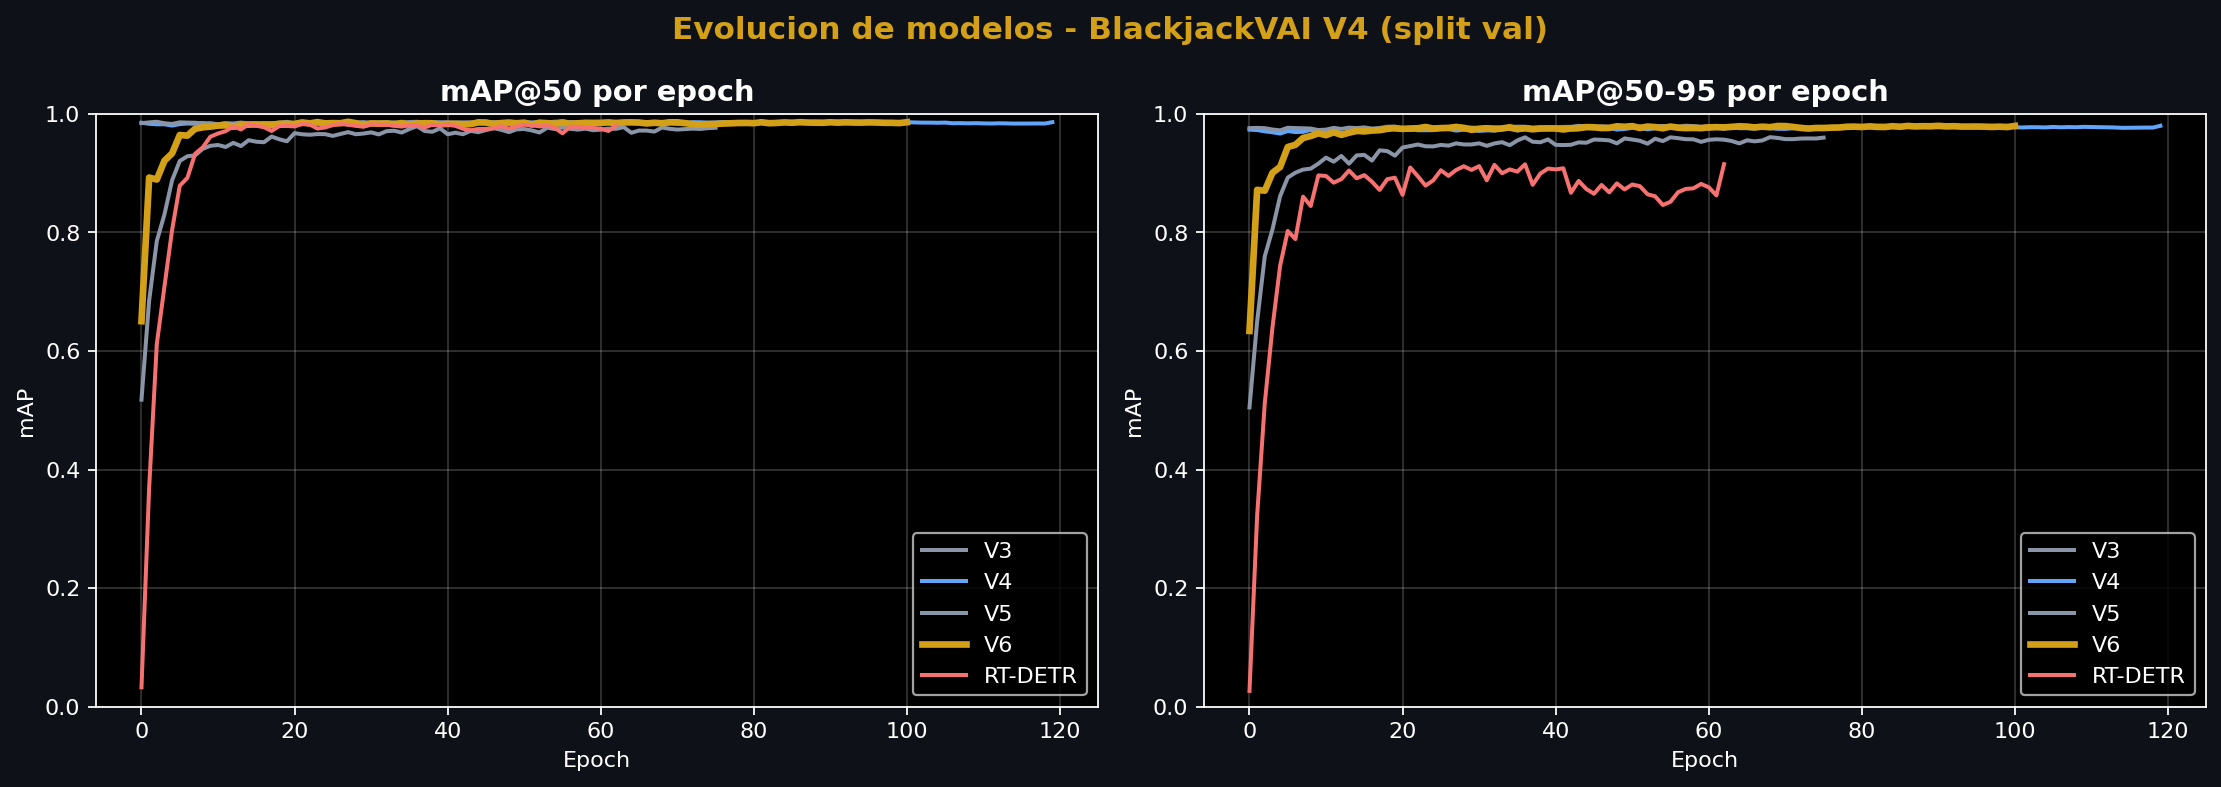
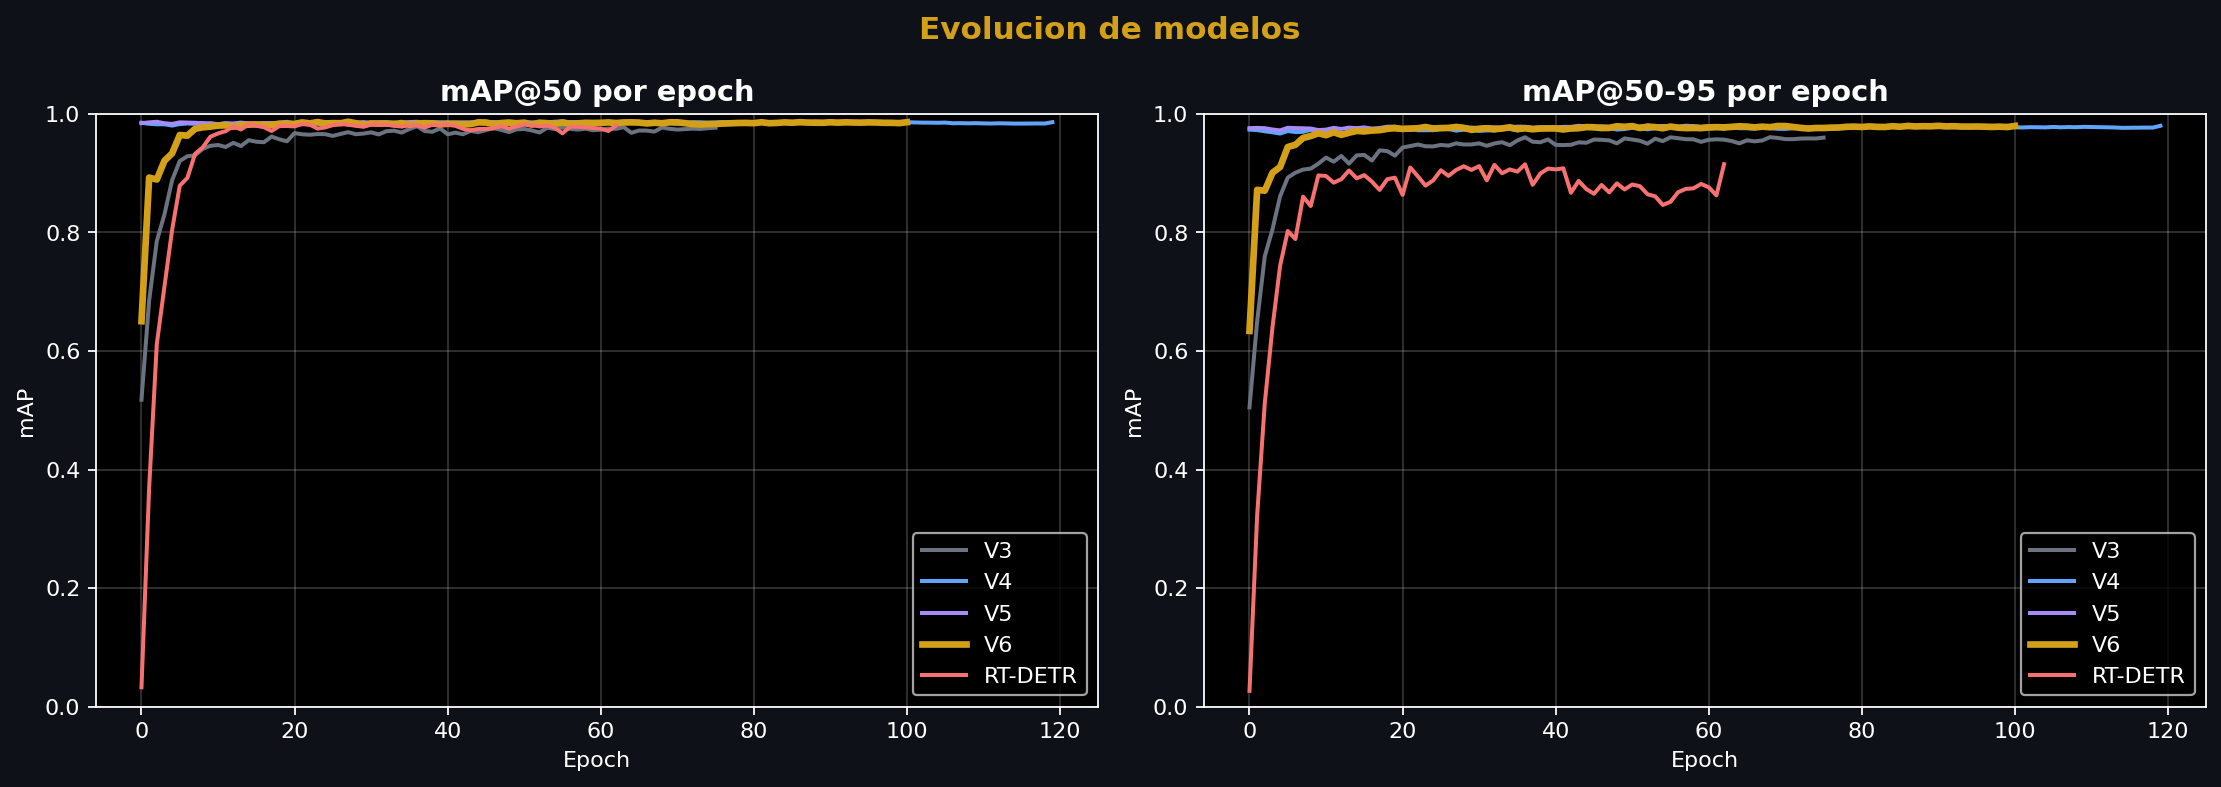
Graficas

diff --git a/docs/presentation_assets/_generate_charts.py b/docs/presentation_assets/_generate_charts.py
@@ -14,11 +14,11 @@ cur = con.cursor()
 
 plt.style.use("dark_background")
 COLORS = {
-    "V3":      "#8b95a8",
-    "V4":      "#60a5fa",
-    "V5":      "#8b95a8",   # gris claro
+    "V3":      "#6b7280",   # gris medio
+    "V4":      "#60a5fa",   # azul
+    "V5":      "#a78bfa",   # lila
     "V6":      "#D4A017",   # dorado: modelo de produccion
-    "RT-DETR": "#f87171",
+    "RT-DETR": "#f87171",   # rojo coral
 }
 
 RUNS = [
@@ -80,7 +80,7 @@ for ax, title in [(axes[0], "mAP@50 por epoch"),
     ax.grid(alpha=0.2)
     ax.legend(loc="lower right", fontsize=10)
 
-plt.suptitle("Evolucion de modelos - BlackjackVAI V4 (split val)",
+plt.suptitle("Evolucion de modelos",
              fontsize=14, fontweight="bold", color="#D4A017")
 plt.tight_layout()
 plt.savefig(OUT / "01_evolucion_modelos.png", dpi=160, bbox_inches="tight",
@@ -351,5 +351,106 @@ if csv_path.exists():
     print("04_comparativa_inferencia.png")
 else:
     print("AVISO: no encontre", csv_path)
+
+# ---------- 10) Losses comparativos - hold-on de los 5 modelos (V6 resaltado) ----------
+# YOLO loss schema: train/{box,cls,dfl,seg}_loss + val/*
+# RT-DETR loss schema: train/{cls,giou,l1}_loss + val/*
+# -> RT-DETR solo se superpone en el panel "Classification" (cls_loss),
+#    en el resto se anota "no aplica" (arquitectura distinta).
+loss_panels_compare = [
+    ("box_loss", "Box Loss",       True),
+    ("cls_loss", "Classification", True),   # RT-DETR si aplica aqui
+    ("dfl_loss", "DFL Loss",       False),
+    ("seg_loss", "Segmentation",   False),
+]
+for split in ("train", "val"):
+    fig, axes = plt.subplots(2, 2, figsize=(14, 9))
+    for ax, (key, title, rtdetr_ok) in zip(axes.flatten(), loss_panels_compare):
+        for label, run_id, backend in RUNS:
+            if not run_id:
+                continue
+            if backend == "rtdetr" and not rtdetr_ok:
+                continue
+            s, v = get_history(run_id, [f"{split}/{key}"])
+            if not s:
+                continue
+            is_v6 = (label == "V6")
+            ax.plot(
+                s, v,
+                label=label,
+                color=COLORS[label],
+                linewidth=3.2 if is_v6 else 1.6,
+                alpha=1.0 if is_v6 else 0.85,
+                zorder=5 if is_v6 else 2,
+            )
+        ax.set_title(title, fontsize=12, fontweight="bold")
+        ax.set_xlabel("Epoch")
+        ax.set_ylabel(f"{split} loss")
+        ax.grid(alpha=0.2)
+        ax.legend(fontsize=9, loc="upper right")
+        if not rtdetr_ok:
+            ax.text(
+                0.98, 0.02, "RT-DETR: no aplica\n(arquitectura distinta)",
+                transform=ax.transAxes, ha="right", va="bottom",
+                fontsize=8, color="#9ca3af", alpha=0.85,
+            )
+    plt.suptitle(
+        f"Comparativa de {split} losses por modelo (V6 resaltado)",
+        fontsize=14, fontweight="bold", color="#D4A017",
+    )
+    plt.tight_layout()
+    out_path = OUT / f"10_compare_{split}_losses.png"
+    plt.savefig(out_path, dpi=160, bbox_inches="tight", facecolor="#0e1117")
+    plt.close()
+    print(out_path.name)
+
+# ---------- 11) mAP comparativos - hold-on de los 5 modelos (V6 resaltado) ----------
+# RT-DETR es detector puro -> sin mask mAP. En los paneles Mask se anota "no aplica".
+map_panels_compare = [
+    ("metrics/mAP50B",    "Box mAP@50",     True),
+    ("metrics/mAP50-95B", "Box mAP@50-95",  True),
+    ("metrics/mAP50M",    "Mask mAP@50",    False),
+    ("metrics/mAP50-95M", "Mask mAP@50-95", False),
+]
+fig, axes = plt.subplots(2, 2, figsize=(14, 9))
+for ax, (key, title, rtdetr_ok) in zip(axes.flatten(), map_panels_compare):
+    for label, run_id, backend in RUNS:
+        if not run_id:
+            continue
+        if backend == "rtdetr" and not rtdetr_ok:
+            continue
+        s, v = get_history(run_id, [key])
+        if not s:
+            continue
+        is_v6 = (label == "V6")
+        ax.plot(
+            s, v,
+            label=label,
+            color=COLORS[label],
+            linewidth=3.2 if is_v6 else 1.6,
+            alpha=1.0 if is_v6 else 0.85,
+            zorder=5 if is_v6 else 2,
+        )
+    ax.set_title(title, fontsize=12, fontweight="bold")
+    ax.set_xlabel("Epoch")
+    ax.set_ylabel("mAP")
+    ax.set_ylim(0.80, 1.0)
+    ax.grid(alpha=0.2)
+    ax.legend(fontsize=9, loc="lower right")
+    if not rtdetr_ok:
+        ax.text(
+            0.98, 0.02, "RT-DETR: solo deteccion\n(sin mask mAP)",
+            transform=ax.transAxes, ha="right", va="bottom",
+            fontsize=8, color="#9ca3af", alpha=0.85,
+        )
+plt.suptitle(
+    "Comparativa de mAP por modelo (V6 resaltado)",
+    fontsize=14, fontweight="bold", color="#D4A017",
+)
+plt.tight_layout()
+plt.savefig(OUT / "11_compare_mAP.png", dpi=160, bbox_inches="tight",
+            facecolor="#0e1117")
+plt.close()
+print("11_compare_mAP.png")
 
 print("\nDone. Output:", OUT)
